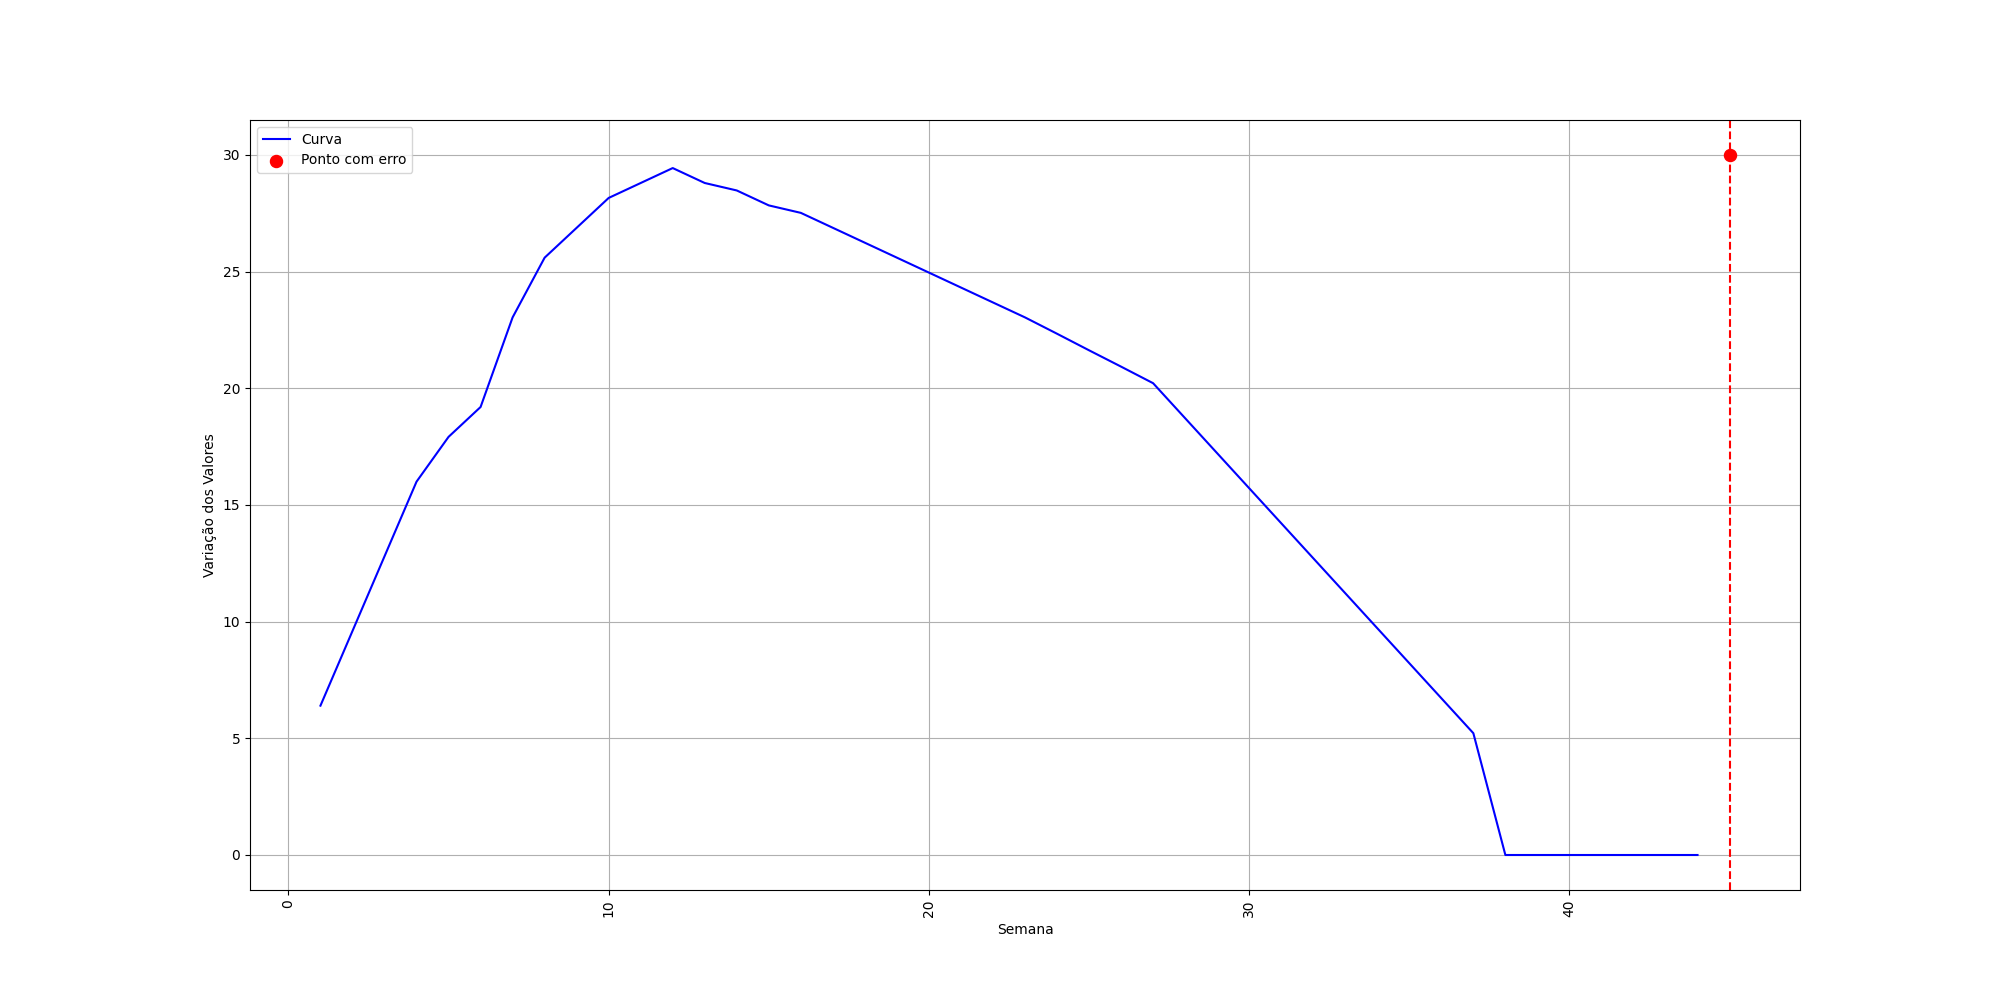
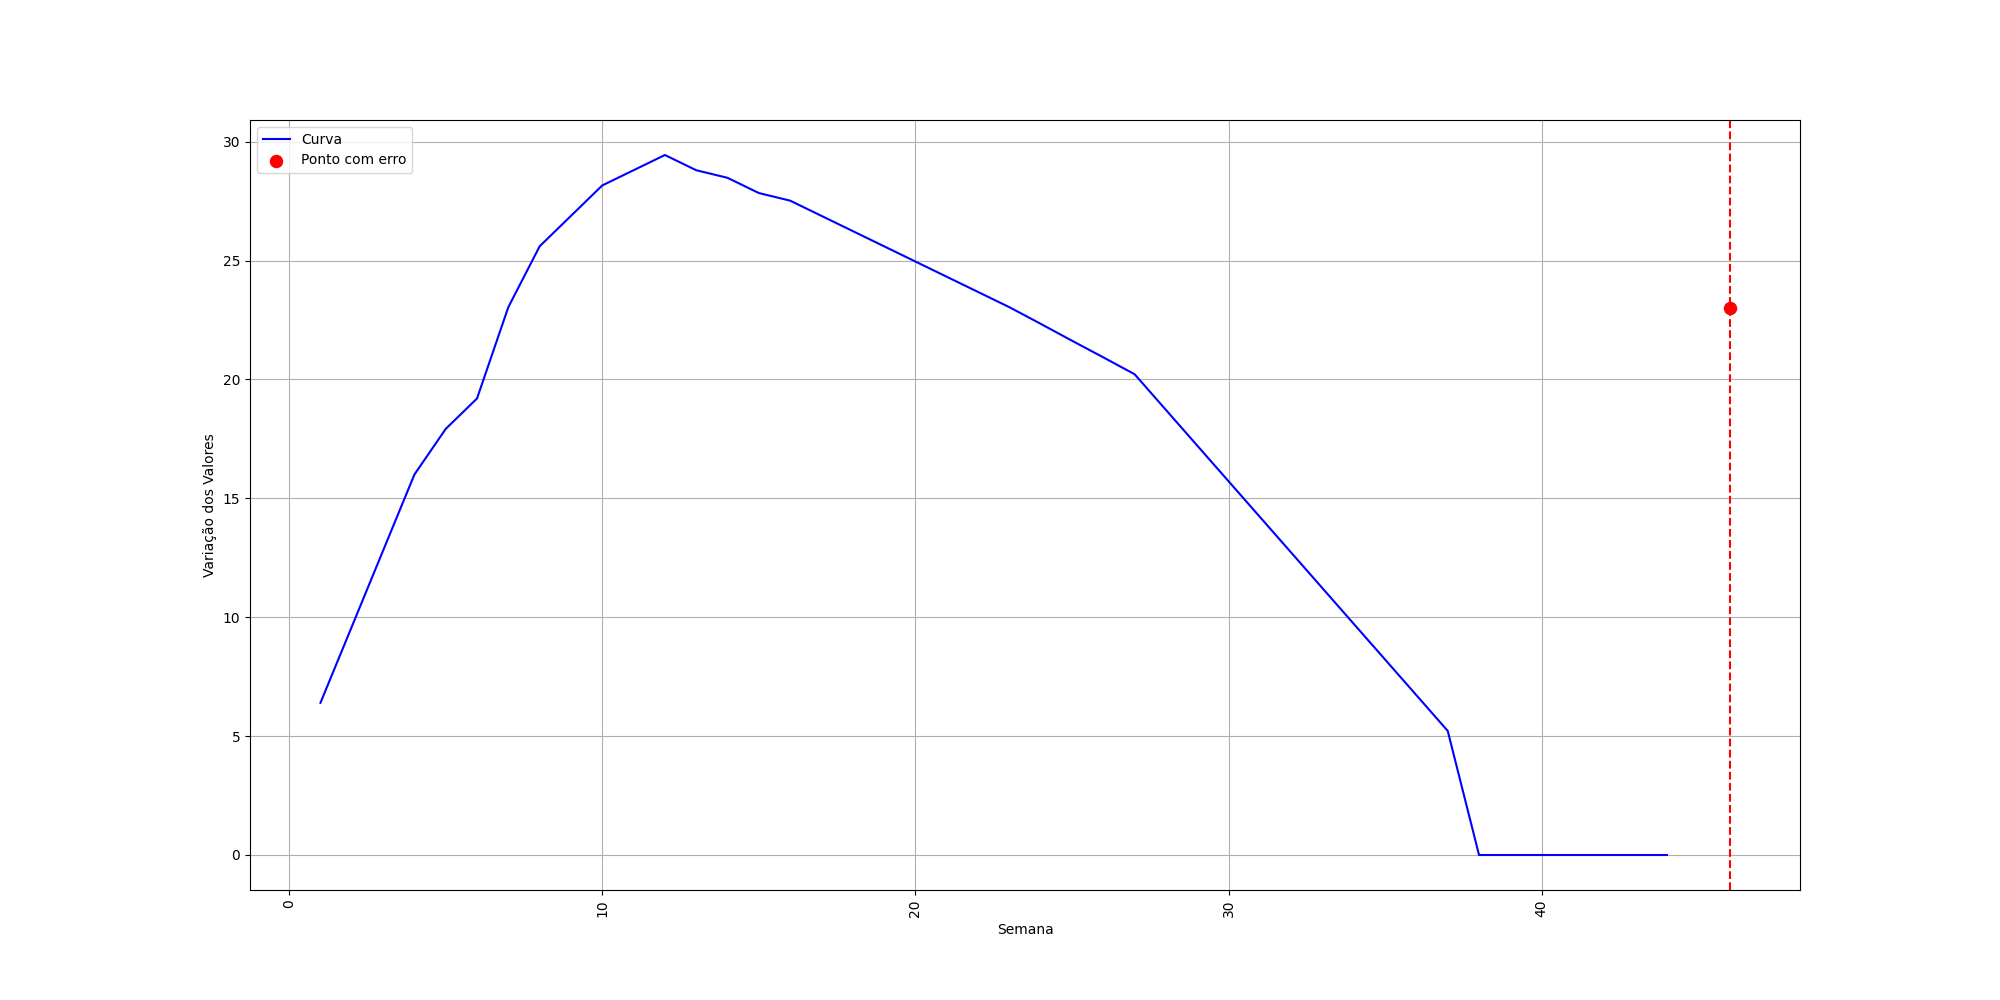
Melhorias nos lançamentos

diff --git a/python_api/main.py b/python_api/main.py
@@ -89,17 +89,34 @@ def launch_value():
 
     print(ids)
     if is_valid:
-        if verify_if_period_exists_in_dataframe(df, time, time_column_name):
-            df.loc[time, column_to_launch] = float(value_to_launch)
-        else:
-            df.loc[len(df), [time_column_name, column_to_launch]] = [time, float(value_to_launch)]
+        # Certifique-se de que a coluna de tempo é o índice
+        if time_column_name not in df.index.names:
+            df.set_index(time_column_name, inplace=True)
         
+        # Verifica se o período já existe no índice
+        print(time + " " + str(type(time)) + " " + " " + str(type(df.index)))
+        print(df.index)
+        if float(time) in df.index:
+            # Atualiza o valor na linha existente
+            # mask = df[time_column_name] == time
+
+            # Atualiza o valor na coluna especificada para as linhas correspondentes
+            # df.loc[mask, column_to_launch] = float(value_to_launch)
+            # df.at[time, column_to_launch] = float(value_to_launch)
+            df.loc[float(time), column_to_launch] = float(value_to_launch)
+        else:
+            # Adiciona uma nova linha
+            new_row = {time_column_name: float(time), column_to_launch: float(value_to_launch)}
+            df = pd.concat([df, pd.DataFrame([new_row]).set_index(time_column_name)])
+
+        # Salva o DataFrame no arquivo CSV
         path = f'./csv/{filename}.csv'
         df.to_csv(path)
         return jsonify({}), 200
     else:
+        # Gera gráfico de erro
         generate_error_graphic(df, time_column_name, time, column_to_launch, float(value_to_launch), filename)
-        return jsonify({"error" : [int(id_item) for id_item in ids]}), 500
+        return jsonify({"error": [int(id_item) for id_item in ids]}), 500
 
 
 @app.route("/format_data", methods=["GET"])

diff --git a/hackathon/resources/views/graph/index.blade.php b/hackathon/resources/views/graph/index.blade.php
@@ -13,12 +13,21 @@
         </p>
     </div>
     <img width="1328px" style="border-radius: 15px;" src="{{ asset('img/' . $path) }}" alt="">
-    <div class="w-full flex justify-end mb-4">
-        <a href="{{ route('validation.index', request('file_name')) }}" class="mt-6">
-            <button class="bg-red-500 hover:bg-red-600 text-white font-medium py-2 px-4 rounded">
-                Seguir para Regras de Validação...
-            </button>
-        </a>
+    <div class="flex flex-col">
+        <div class="w-full flex justify-end mb-4">
+            <a href="{{ route('graph.download', request('file_name')) }}" class="mt-6">
+                <button class="bg-red-500 hover:bg-red-600 text-white font-medium py-2 px-4 rounded">
+                    Fazer download...
+                </button>
+            </a>
+        </div>
+        <div class="w-full flex justify-end mb-4">
+            <a href="{{ route('validation.index', request('file_name')) }}" class="mt-6">
+                <button class="bg-red-500 hover:bg-red-600 text-white font-medium py-2 px-4 rounded">
+                    Seguir para Regras de Validação...
+                </button>
+            </a>
+        </div>
     </div>
 </div>
 

diff --git a/hackathon/routes/web.php b/hackathon/routes/web.php
@@ -40,6 +40,7 @@ Route::get('/form-edit-data/{name}', [ManipulateDataController::class, 'index'])
 Route::post('/form-edit-data/update', [ManipulateDataController::class, 'update'])->name('csv.update');
 
 Route::get('/graph', [GraphController::class, 'retrieve_graph'])->name('graph.retrieve');
+Route::get('/graph/download/{filename}', [GraphController::class, 'download'])->name('graph.download');
 
 Route::get('/regras-validacao/{file_name}', [ValidationController::class, 'index'])->name('validation.index');
 Route::post('/regras-validacao', [ValidationController::class, 'validation'])->name('validation.validation');

diff --git a/hackathon/app/Http/Controllers/GraphController.php b/hackathon/app/Http/Controllers/GraphController.php
@@ -21,4 +21,14 @@ class GraphController extends Controller
             abort(500);
         }
     }
+
+    public function download(Request $request, String $filename){
+        $path = public_path('img/' . $filename . '.png');
+
+        return response()->download($path, $filename . ".png", [
+            'Cache-Control' => 'no-store',
+        ]);
+
+        return redirect()->route('graph.retrieve')->with('file_name', $filename);
+    }
 }

diff --git a/hackathon/resources/views/launch/index.blade.php b/hackathon/resources/views/launch/index.blade.php
@@ -3,7 +3,6 @@
 @section('title', 'Upload Dataset')
 
 @section('content')
-    
 <form action="{{ route('launch.launch') }}" method="POST">
     @csrf
     <div class="mb-6 text-center">
